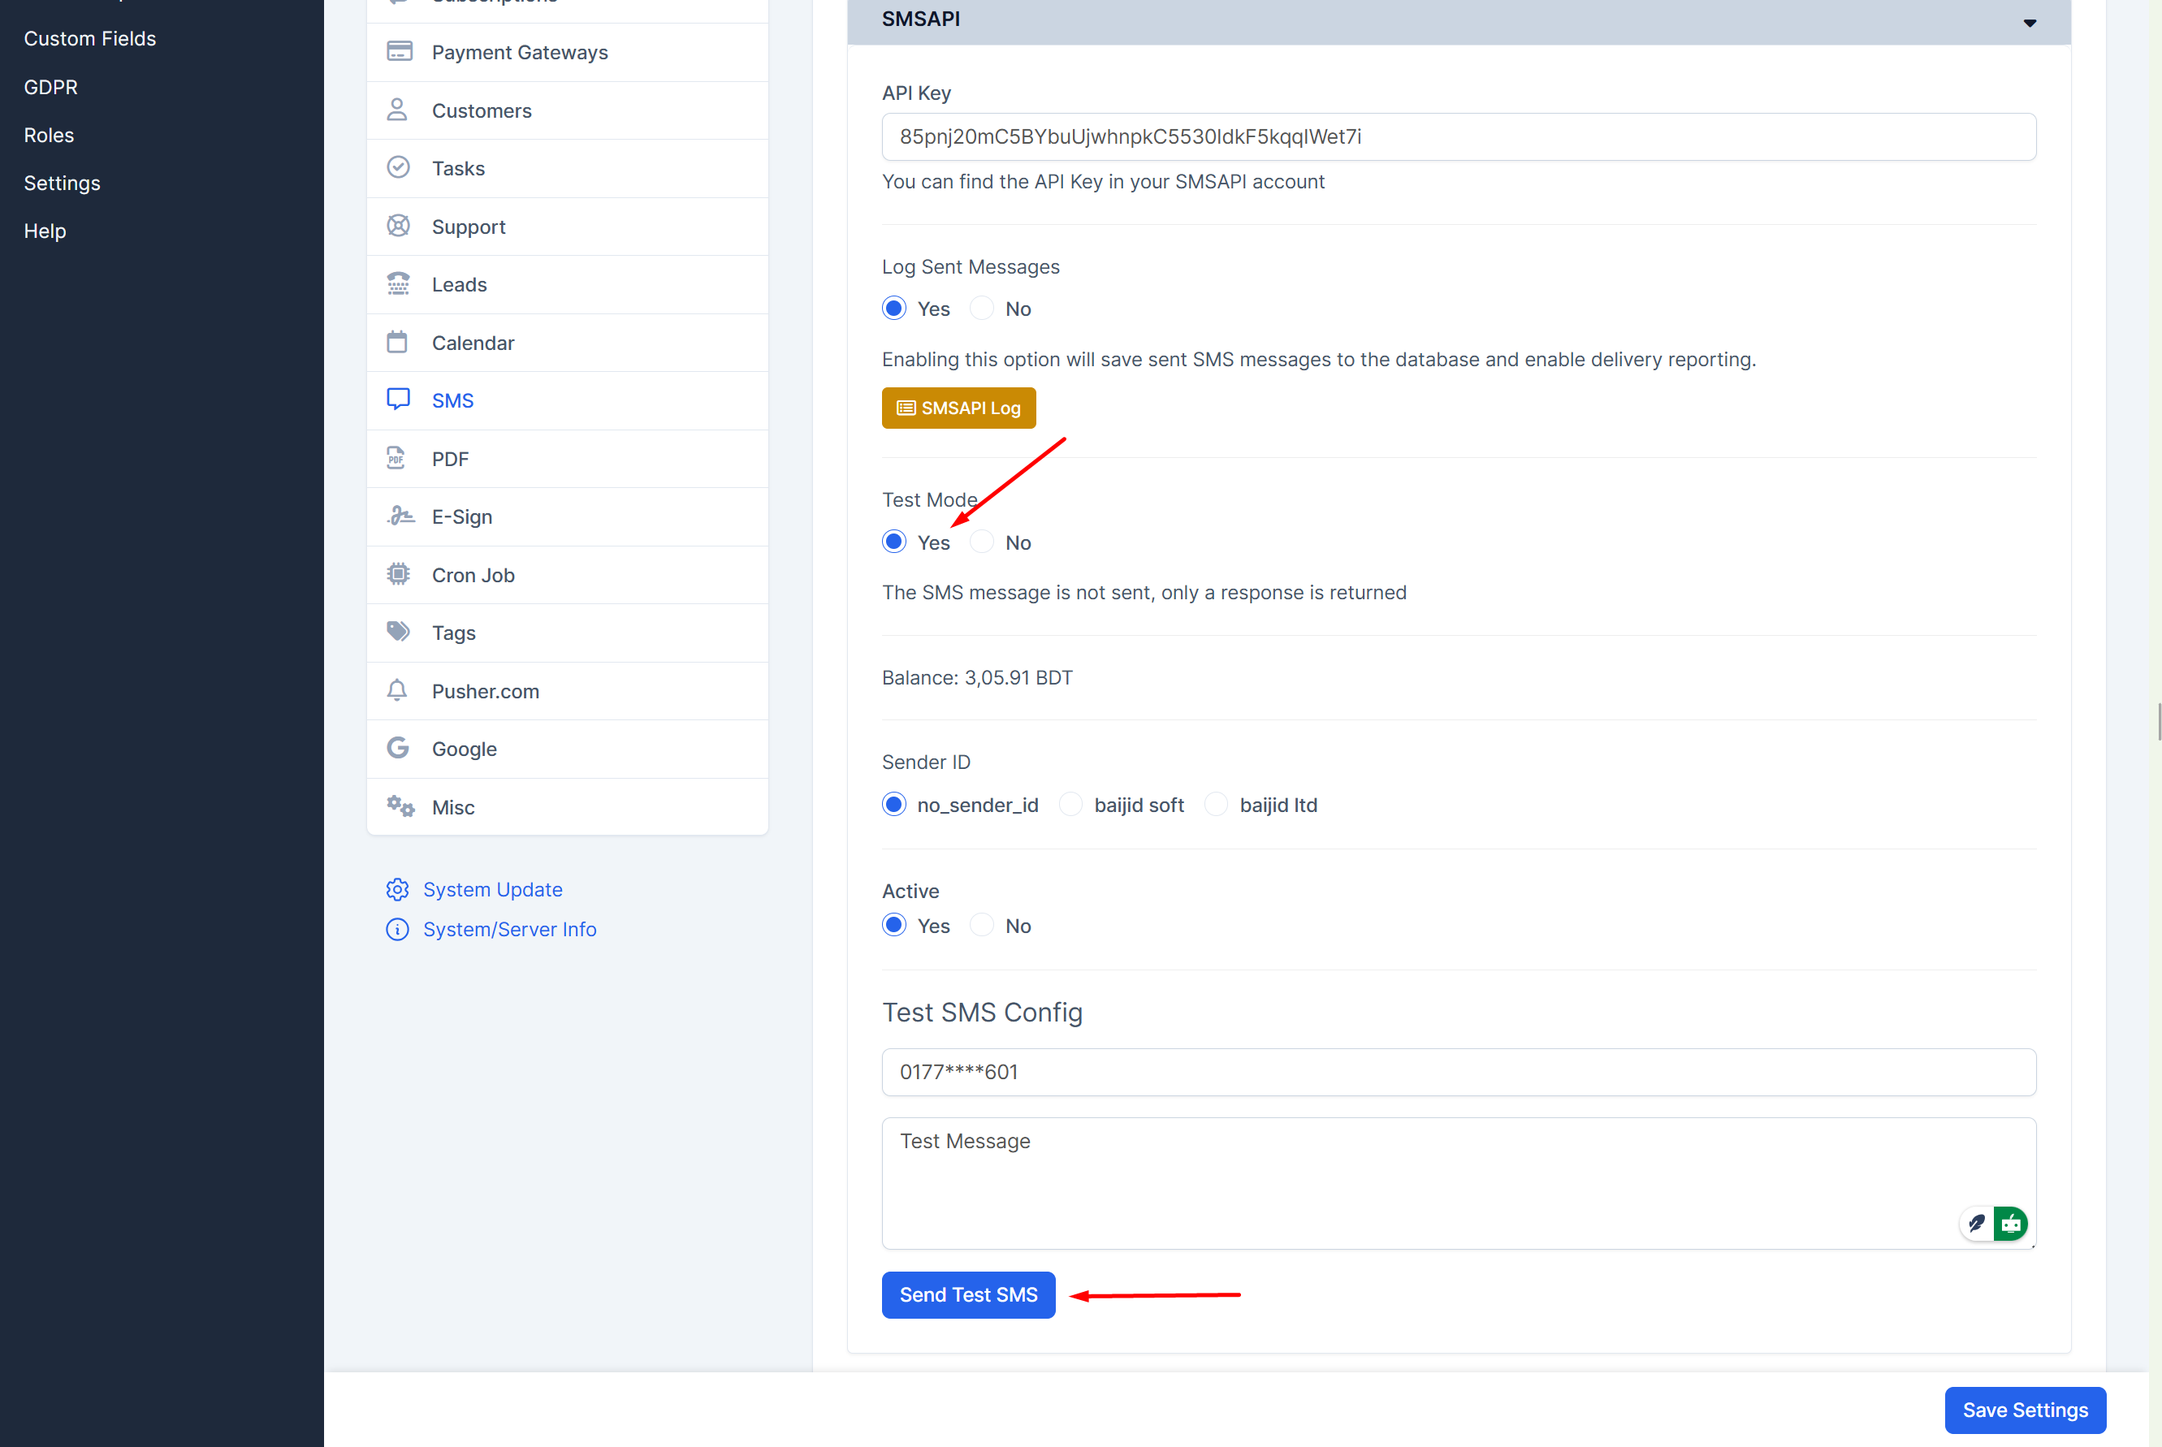
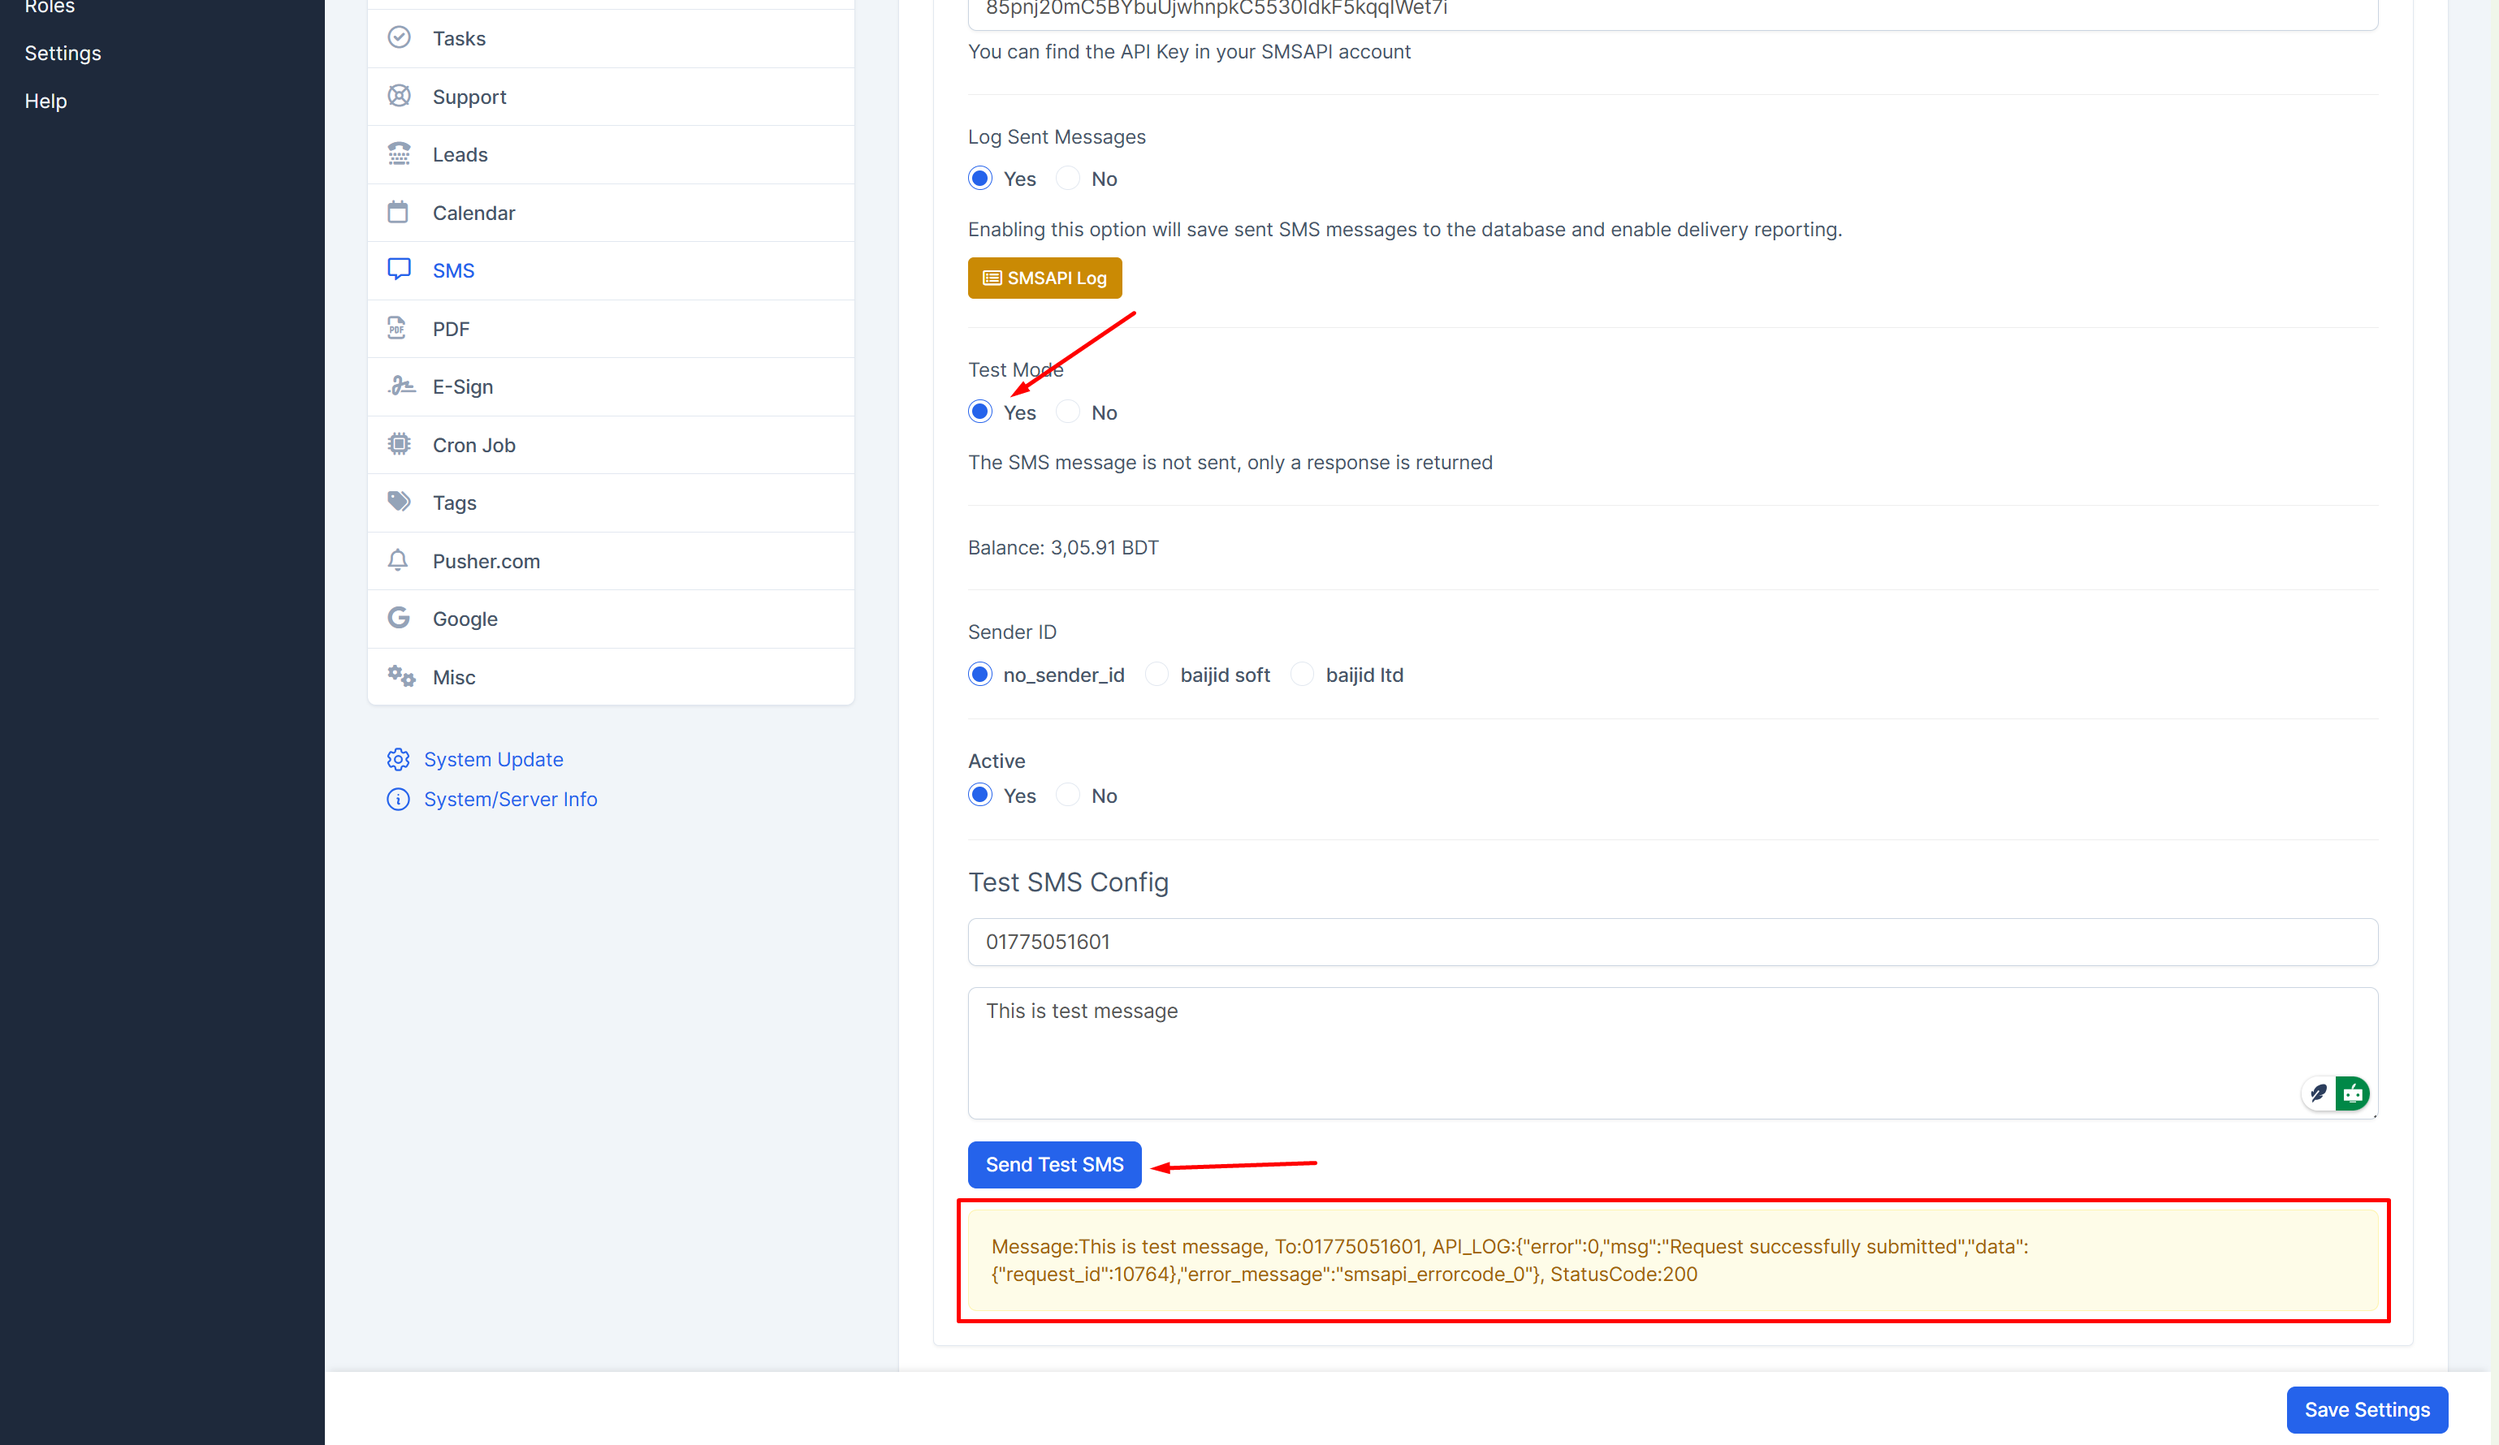
screenshot add

diff --git a/README.md b/README.md
@@ -69,6 +69,8 @@ Easily integrate **[sms.net.bd](https://sms.net.bd)** with **Perfex CRM** to sen
    - This module includes an option to log all sent messages.
    - Enable or disable the **Log Sent Messages** option by selecting `Yes` or `No` in the module settings.
    - When enabled, sent messages will be recorded for tracking purposes.
+   ![SMS.net.bd + Perfex CRM](./assets/img/screenshot5.png)
+   ![SMS.net.bd + Perfex CRM](./assets/img/screenshot6.png)
 
 ### 4. Test Mode Selection
    
